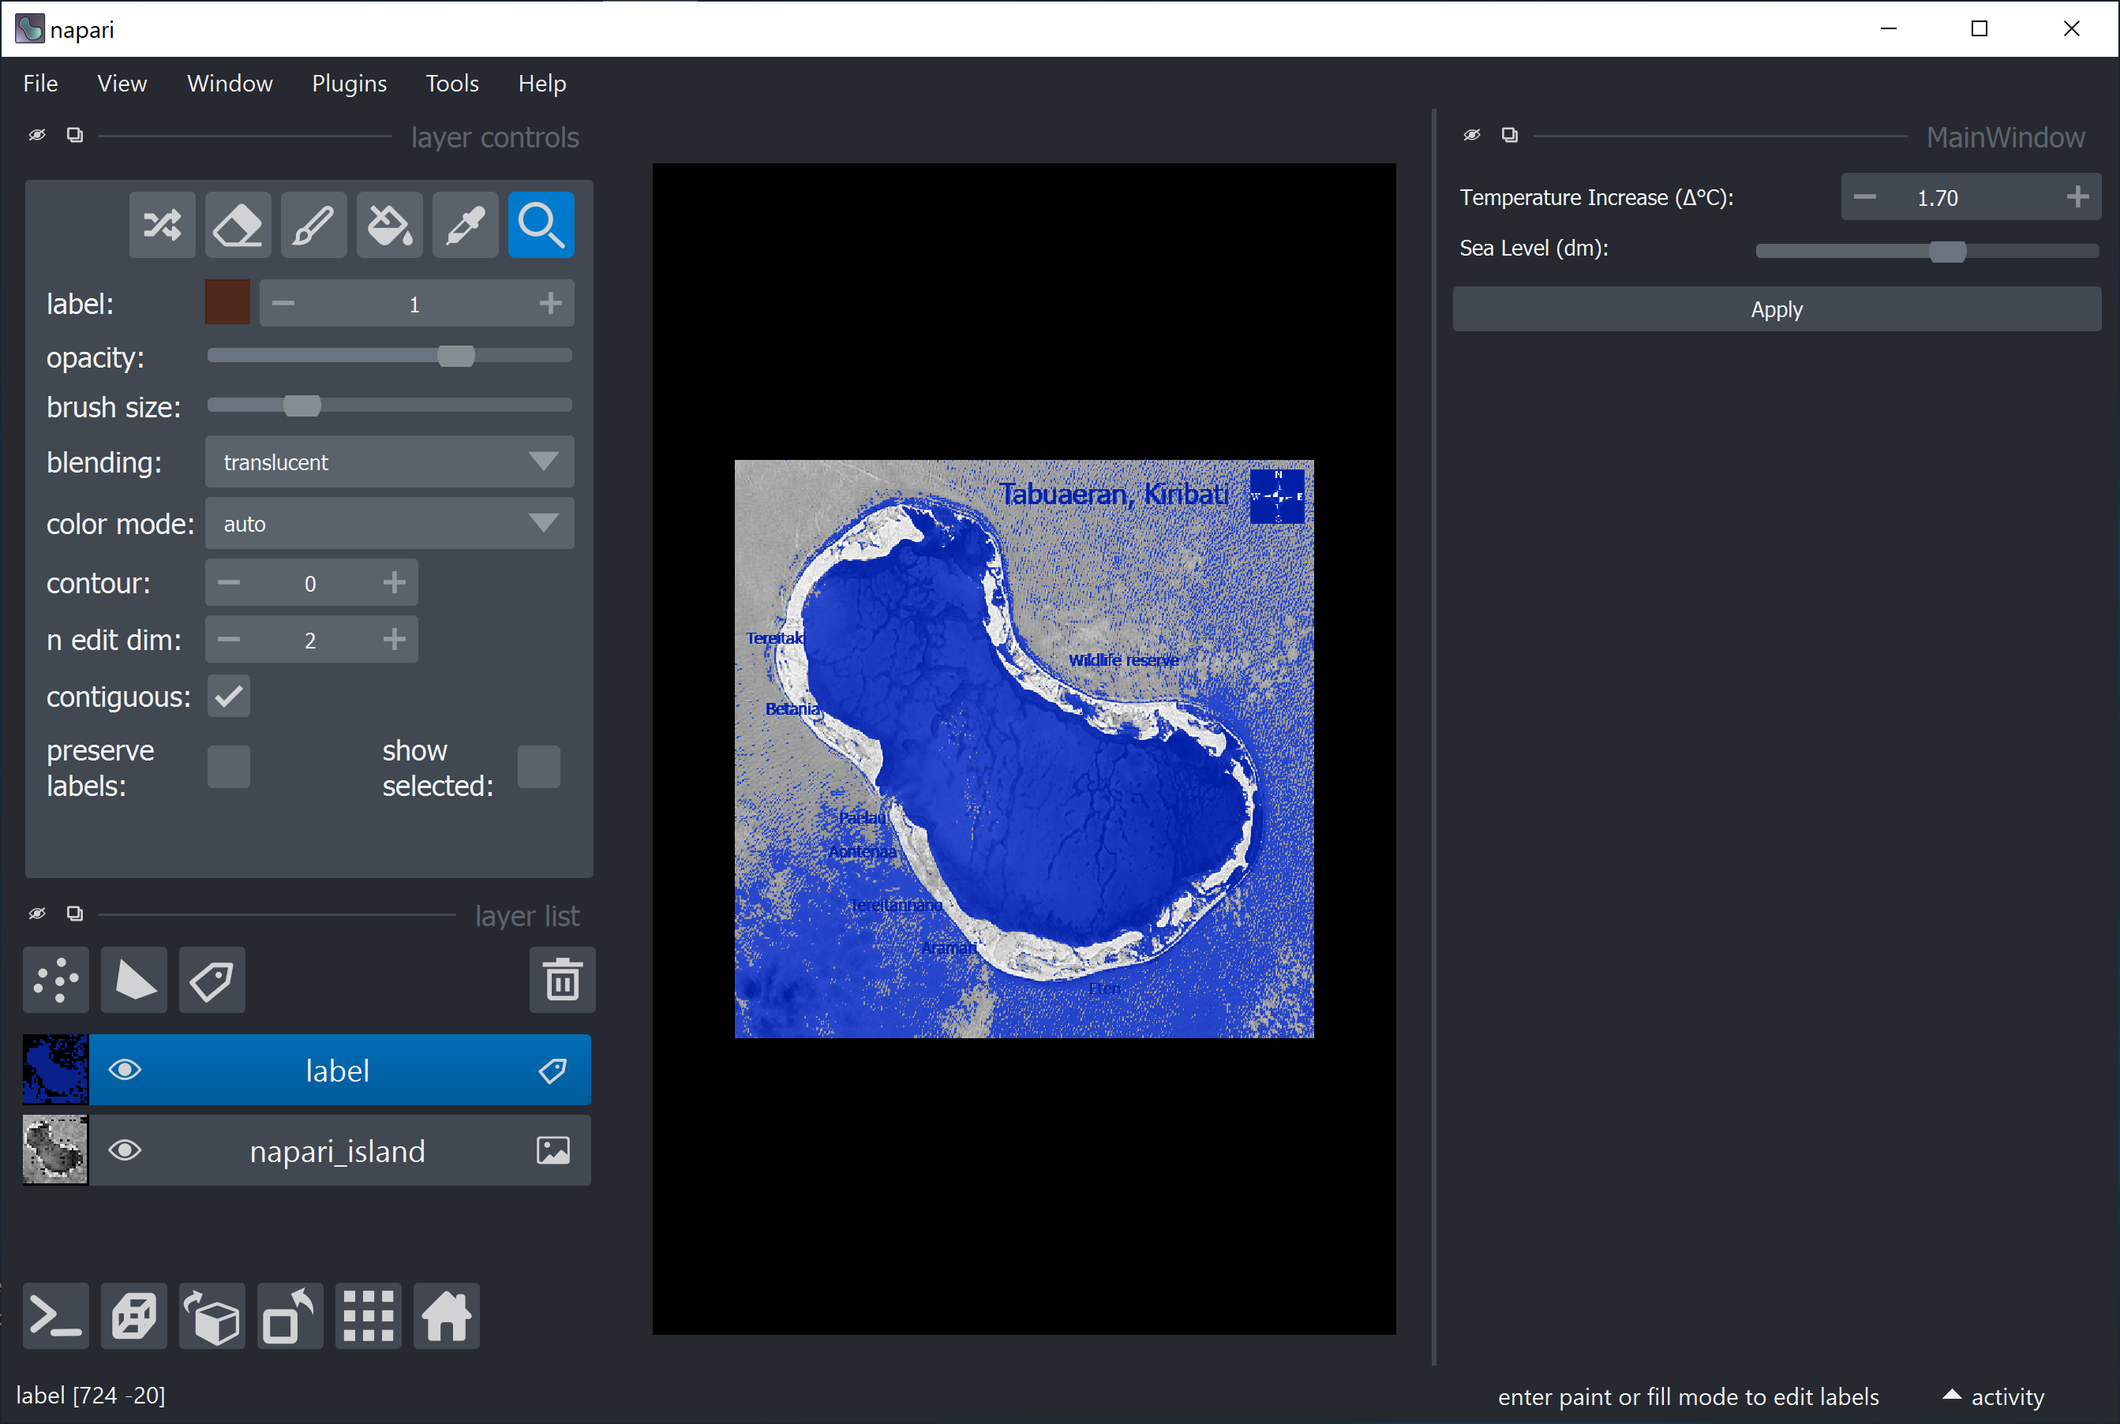
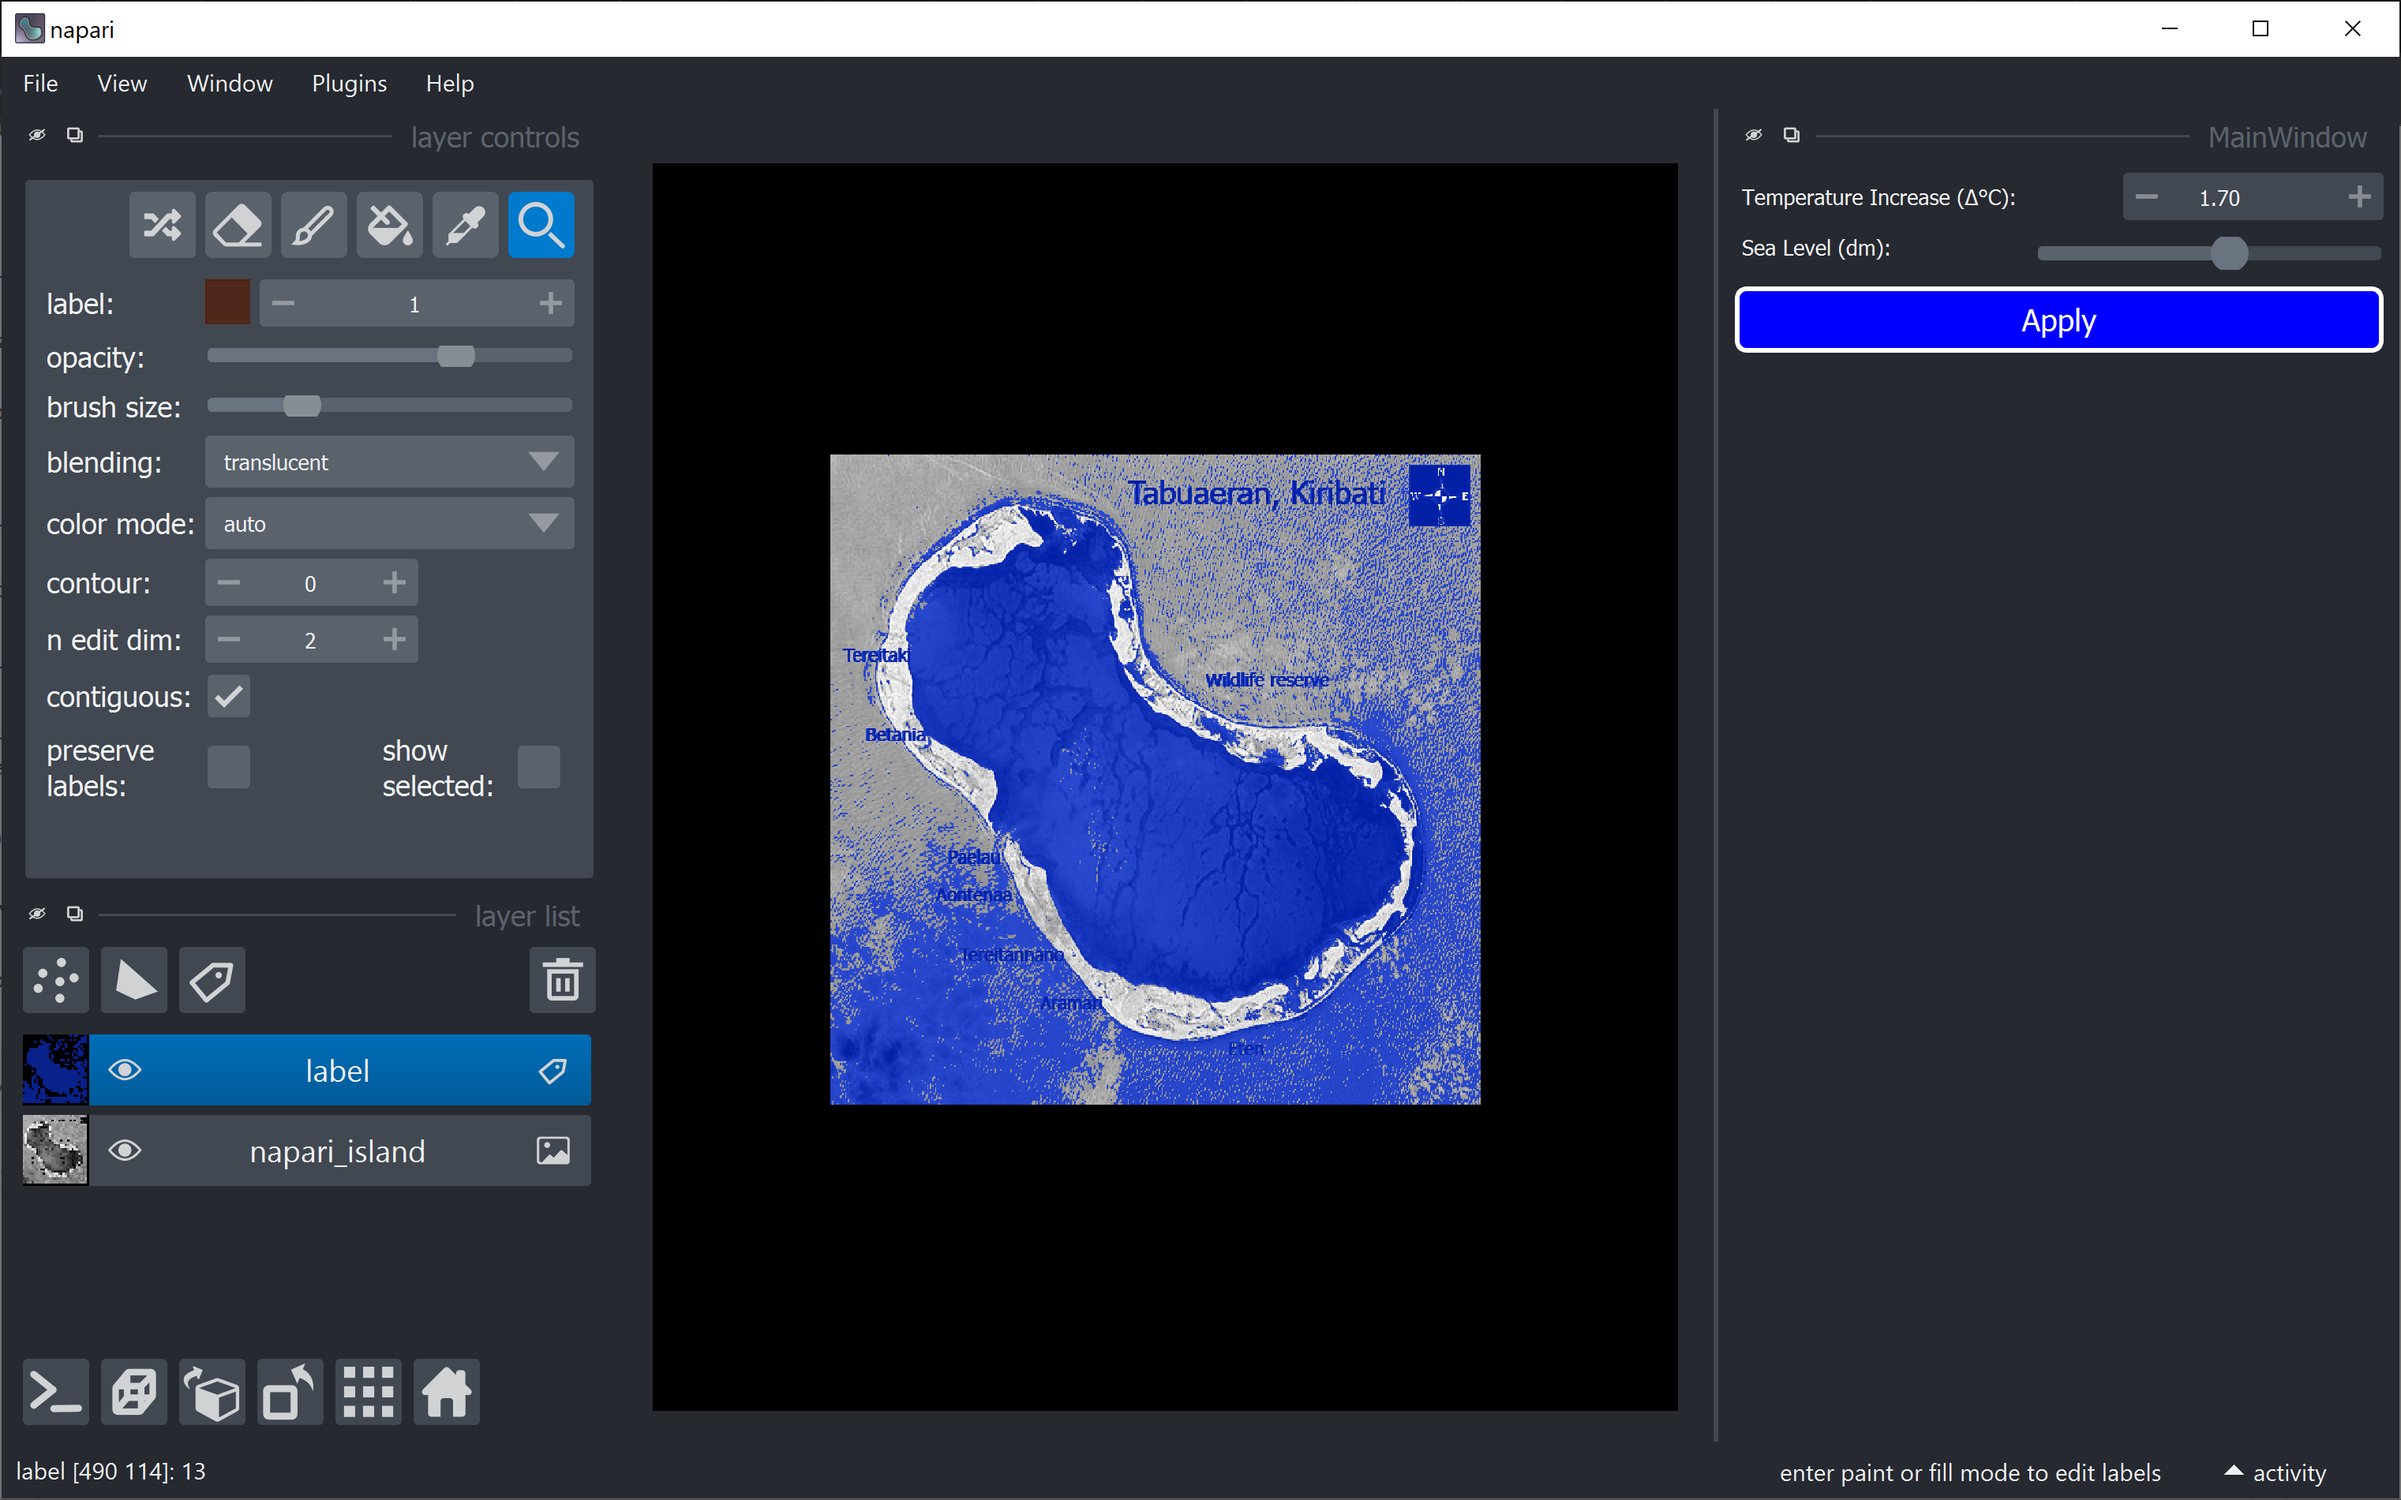
added images with blue button
- also decreased some image sizes so they appear smaller in the blog.

Changed region(s): [[0.0, 0.0, 1.0, 1.0], [0.3399, 0.2792, 0.618, 0.7446]]

diff --git a/marcelo_zoccoler/entry_user_interf3/scripts/flood_tool.py b/marcelo_zoccoler/entry_user_interf3/scripts/flood_tool.py
@@ -43,9 +43,12 @@ class Ui_MainWindow(object):
         self.horizontalSlider.setObjectName("horizontalSlider")
         self.gridLayout.addWidget(self.horizontalSlider, 2, 1, 2, 3)
         self.pushButton = QtWidgets.QPushButton(self.centralwidget)
+        self.pushButton.setMinimumSize(QtCore.QSize(30, 20))
         self.pushButton.setStyleSheet("background-color: rgb(0, 0, 255);\n"
 "color: rgb(255, 255, 255);\n"
-"font: 75 12pt \"MS Shell Dlg 2\";")
+"font: 75 12pt \"MS Shell Dlg 2\";\n"
+"border: 2px solid white;\n"
+"border-radius: 5px;")
         self.pushButton.setObjectName("pushButton")
         self.gridLayout.addWidget(self.pushButton, 4, 0, 1, 4)
         MainWindow.setCentralWidget(self.centralwidget)
